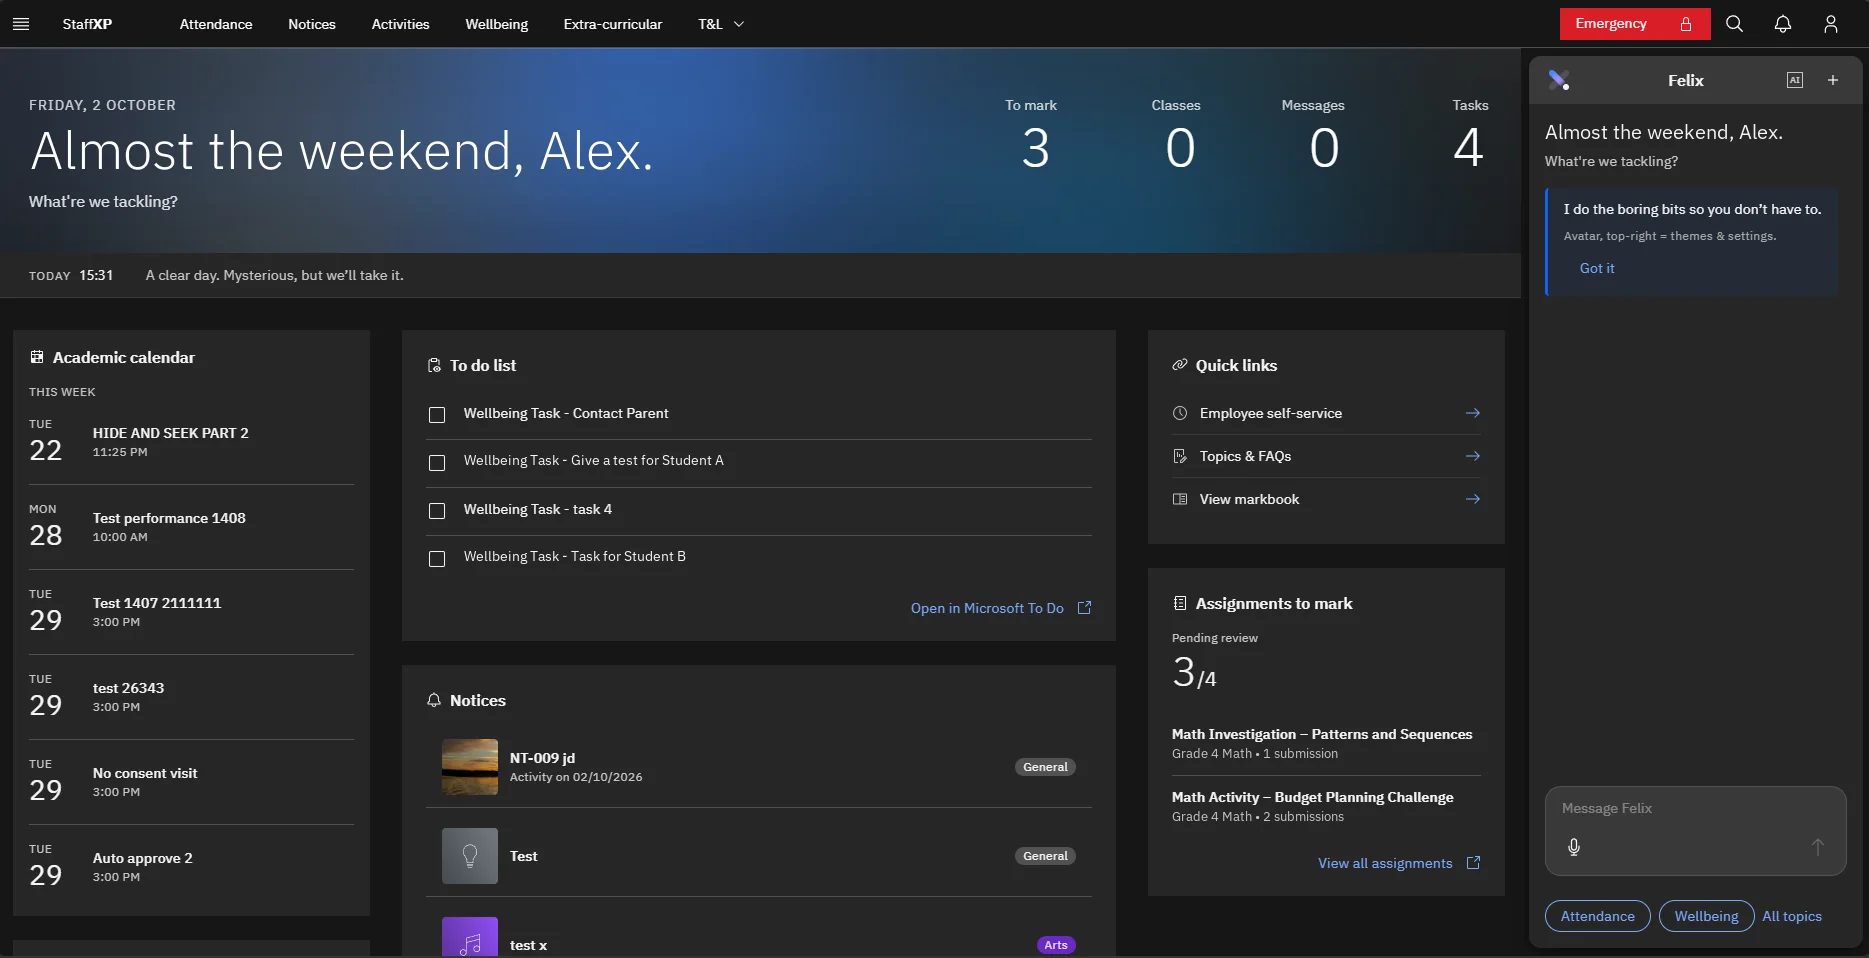
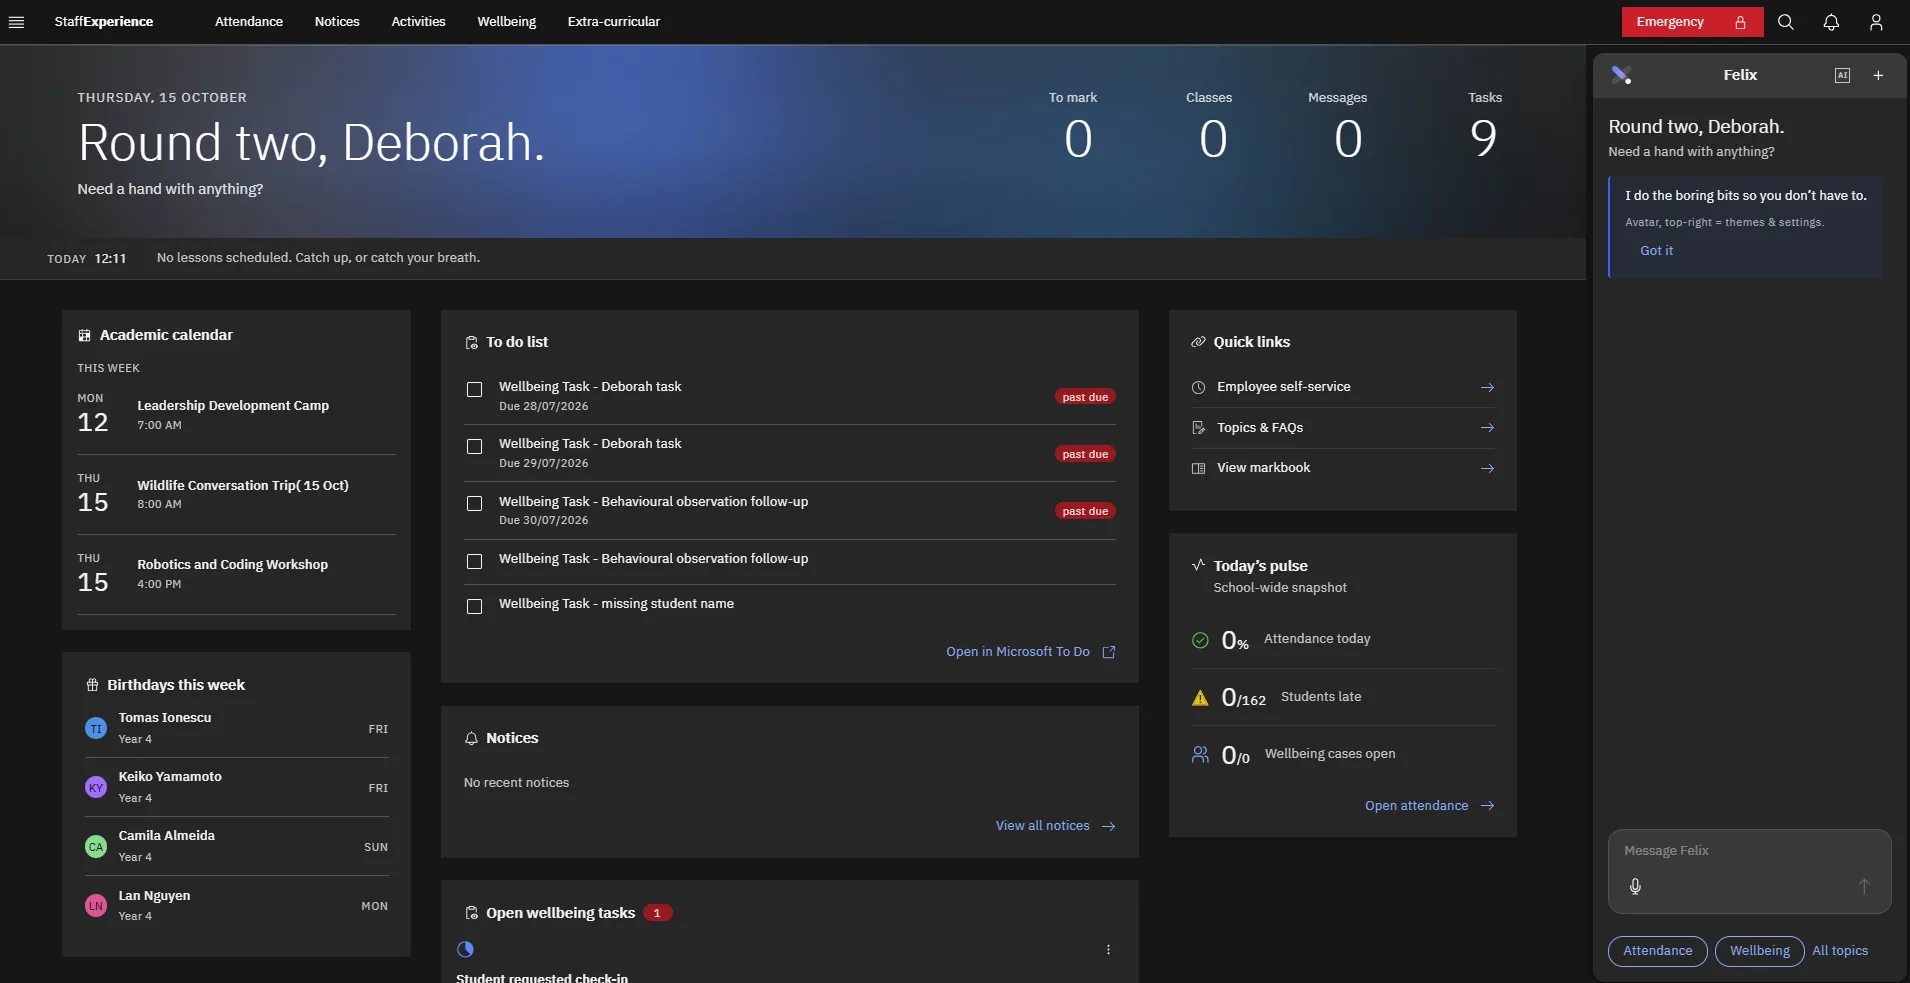
fix(work): swap in the new StaffXP dashboard screenshot, re-measure hotspots
Teammate provided a new dashboard capture (dropped directly into
public/work/, same filename) whose UI now reads "StaffExperience"
instead of "StaffXP" — resolves the copyright concern at the pixel
level, not just in page text (see the earlier rename commit).

Confirmed with the team before committing: the visible names (a
greeting by first name, a "Birthdays this week" list tagged "Year 4")
are seeded demo-account data, not real people.

The new layout bears no resemblance to the old one, so the existing
hotspot boxes (percentage regions measured against the old image) would
have misaligned completely. Re-measured from scratch using a gridded
HTML overlay + Playwright screenshots as a ruler, rather than eyeballing
it. Settled on 8 regions (was 6): Academic calendar, To-do list,
Birthdays this week, Notices, Open wellbeing tasks, Quick links,
Today's pulse, AI assistant panel. "Assignments to mark" no longer
exists in this layout.

- site.js: selectedWork.staffxp.hotspots, main.width/height (1910x983,
  read from the PNG header) and main.alt updated to match.
- public/work/staffxp-dashboard.webp: converted from the delivered PNG
  (sharp installed temporarily, same pattern as this session's other
  temporary tool installs) to match the other screenshots' format.
- content/TODO.md: ticked off the dev-test-data item (resolved by the
  new capture's content) and noted the sign-in screenshot never showed
  "StaffXP" in the first place, so it didn't need replacing.
[…]

diff --git a/src/content/site.js b/src/content/site.js
@@ -195,10 +195,13 @@ export const selectedWork = {
     desc: 'A staff experience platform bringing everyday activities, notices, wellbeing, tasks, and operational information into one workspace.',
     tags: ['Staff experience', 'Business workflow', 'Role-based platform', 'Integrated operations'],
     main: {
+      // 2026-10-15: replaced with a new capture that no longer shows the "StaffXP" brand in the UI
+      // itself (the app header now reads "StaffExperience") — see PROMPT_LOG.md. Still a seeded demo
+      // account, not a real staff/student roster (confirmed with the team before committing).
       src: '/work/staffxp-dashboard.webp',
-      alt: 'Staff Experience dashboard with academic calendar, to-do list, notices, quick links, assignments to mark and an AI assistant panel. Sample data.',
-      width: 1869,
-      height: 958,
+      alt: "Staff Experience dashboard with academic calendar, to-do list, birthdays this week, notices, open wellbeing tasks, quick links, today's pulse and an AI assistant panel. Sample data.",
+      width: 1910,
+      height: 983,
     },
     secondary: {
       src: '/work/staffxp-sign-in.webp',
@@ -208,14 +211,17 @@ export const selectedWork = {
     },
     // DRAFT: heading for the list of annotated regions under the screens.
     hotspotsTitle: 'On this screen',
-    // MOTION §13: only UI visible in the screenshot is annotated.
+    // MOTION §13: only UI visible in the screenshot is annotated. Boxes measured 2026-10-15 against
+    // the new 1910x983 capture (replaces the previous screenshot's layout and hotspots).
     hotspots: [
-      { id: 'calendar', label: 'Academic calendar', box: { x: 0.7, y: 34.4, w: 19.1, h: 61.1 } },
-      { id: 'tasks', label: 'To-do list, linked to Microsoft To Do', box: { x: 21.5, y: 34.4, w: 38.2, h: 32.4 } },
-      { id: 'notices', label: 'Notices', box: { x: 21.5, y: 69.4, w: 38.2, h: 30.6 } },
-      { id: 'links', label: 'Quick links, including employee self-service', box: { x: 61.4, y: 34.4, w: 19.1, h: 22.2 } },
-      { id: 'marking', label: 'Assignments to mark', box: { x: 61.4, y: 59.3, w: 19.1, h: 34.1 } },
-      { id: 'assistant', label: 'AI assistant panel', box: { x: 81.9, y: 5.7, w: 17.8, h: 93.5 } },
+      { id: 'calendar', label: 'Academic calendar', box: { x: 2.4, y: 29.5, w: 19.6, h: 35.1 } },
+      { id: 'tasks', label: 'To-do list, linked to Microsoft To Do', box: { x: 24, y: 29.5, w: 37, h: 33.5 } },
+      { id: 'birthdays', label: 'Birthdays this week', box: { x: 2.4, y: 67.6, w: 19.6, h: 29.4 } },
+      { id: 'notices', label: 'Notices', box: { x: 24, y: 66.6, w: 37, h: 18.4 } },
+      { id: 'wellbeing', label: 'Open wellbeing tasks', box: { x: 24, y: 89, w: 37, h: 10.5 } },
+      { id: 'links', label: 'Quick links, including employee self-service', box: { x: 62.5, y: 29.5, w: 21, h: 18.3 } },
+      { id: 'pulse', label: "Today's pulse, a school-wide snapshot", box: { x: 62.5, y: 53.4, w: 21, h: 29.6 } },
+      { id: 'assistant', label: 'AI assistant panel', box: { x: 84.5, y: 6, w: 15.5, h: 94 } },
     ],
   },
   ess: {

diff --git a/PROMPT_LOG.md b/PROMPT_LOG.md
@@ -1099,3 +1099,45 @@ just at the end.
   confirmed zero "StaffXP" matches and the new "Staff Experience" text present on both. Zero console
   errors.
 
+## 2026-10-15 — new StaffXP screenshot: swapped in, re-measured, no new names (Bang Do + Claude)
+- Prompt: "image replace now", then (after I said no new file had reached the repo) "image is new
+  just the same name staffxp-dashboard".
+- Found it: `public/work/staffxp-dashboard.png`, dropped directly onto disk (not a chat attachment),
+  replacing the old `.webp` (which was gone). Read it before using it, per the project's screenshot
+  rule. Its app header now says "StaffExperience" (not "StaffXP") — the brand concern from the earlier
+  rename is now fixed at the pixel level too, not just in page text.
+- The new screenshot has named people visible: the greeting "Round two, Deborah," and a "Birthdays
+  this week" list with four names tagged "Year 4" (read as students). The project's standing rule is
+  to sanitize real names before a screenshot goes in — asked before committing it, rather than assume.
+  Bang Do confirmed it's seeded demo-account data, not real people; proceeded on that basis.
+  **Lesson: a filename staying the same ("staffxp-dashboard") says nothing about whether the pixels
+  changed, or by how much — checked the file's actual mtime (it had changed) and then actually looked
+  at the content (new layout entirely) before touching anything downstream.**
+- The new layout bears no resemblance to the old one (different panels, different grid), which meant
+  the existing `hotspots` array (% boxes measured against the old image) would misalign completely on
+  the new one — not a simple swap. Re-measured from scratch: loaded the image in a local HTML page
+  with a 5%-interval grid drawn over it via `<canvas>` (axis labels repeated on all four edges so any
+  cropped close-up is still self-contained), screenshotted it in quadrants and targeted boundary crops
+  with Playwright, and read the new eight panels' edges off the ruler directly rather than eyeballing
+  the original screenshot. Settled on 8 regions (the old had 6): Academic calendar, To-do list,
+  Birthdays this week, Notices, Open wellbeing tasks, Quick links, Today's pulse, AI assistant panel —
+  "Assignments to mark" no longer exists in this layout, so it's gone; the three new panels
+  (Birthdays, Today's pulse, Open wellbeing tasks) are genuinely new UI in the capture, not invented.
+  `site.js` `selectedWork.staffxp.hotspots`, `main.width`/`height` (1910x983, read from the PNG's own
+  header rather than assumed) and `main.alt` all updated to match.
+- Converted the delivered `.png` to `.webp` (installed `sharp` temporarily, same pattern as this
+  session's temporary Playwright installs — removed after) to match the other two screenshots'
+  format; deleted the `.png` so only one copy of the image exists in the repo.
+  Also checked the StaffXP sign-in screenshot while in the area: its UI already reads "Staff
+  Experience Place - SXP", never the literal "StaffXP", so it did not need replacing — noted in
+  `content/TODO.md` rather than left unexamined. The new dashboard capture also incidentally resolved
+  an older open item (`content/TODO.md`): the dev-environment test strings ("Test performance…",
+  "HIDE AND SEEK PART 2") from the previous screenshot are gone, replaced by plausible seeded content.
+- Verified: `npm test` (523/523, the existing hotspot tests only check unique ids/non-empty labels
+  and in-bounds boxes — no pixel-precision assertion exists, so this relied on the manual grid
+  measurement, not the test suite, for visual accuracy), `npm run lint` (clean), `npm run build`.
+  Playwright loaded the live Deployments viewer and confirmed: zero "StaffXP" matches, the card now
+  reads "STAFF EXPERIENCE", all 8 region buttons render with the expected labels, and — most
+  importantly, since this is the part no automated check covers — screenshotted the rendered page and
+  visually confirmed every hotspot box sits exactly over its real panel with no drift or overlap.
+

diff --git a/content/TODO.md b/content/TODO.md
@@ -25,15 +25,16 @@ see unmarked (open any build with `?review` to see the Draft markers). Resolve e
       is no longer shown as a product name anywhere in the page text — a teammate flagged it as
       another company's ("Gems") copyright, so the page now calls it "Staff Experience" throughout
       (`site.js` `selectedWork.staffxp.name`).
-- [ ] **StaffXP screenshots still show the real brand**: the dashboard and sign-in screenshots in
-      `public/work/` (`staffxp-dashboard.webp`, `staffxp-sign-in.webp`) have "StaffXP" baked into the
-      UI pixels themselves (app header/logo), so the copyright concern above isn't fully resolved by
-      the text rename alone. 2026-10-15: a teammate said a replacement screenshot is coming; swap it
-      in (same sanitizing steps as before: crop chrome, replace names/ids/school names with sample
-      values) once it's actually provided — it hasn't reached this repo yet.
-- [ ] **Test data on the StaffXP dashboard**: calendar items ("Test performance…", "HIDE AND SEEK
-      PART 2") and notices ("Test", "test x") are the dev environment's test records. Consider a
-      screenshot of a seeded demo account instead.
+- [x] ~~**StaffXP dashboard screenshot still showed the real brand**~~: 2026-10-15, replaced with a
+      new capture (`public/work/staffxp-dashboard.webp`, 1910x983) whose UI itself now reads
+      "StaffExperience", not "StaffXP" — confirmed with the team as a seeded demo account, not real
+      staff/students, before committing. Hotspot boxes (`site.js` `selectedWork.staffxp.hotspots`)
+      re-measured against the new layout. The sign-in screenshot (`staffxp-sign-in.webp`) was already
+      fine: its UI shows "Staff Experience Place - SXP", not "StaffXP" — no replacement needed there.
+- [x] ~~**Test data on the StaffXP dashboard**~~: resolved by the same 2026-10-15 screenshot swap —
+      the new capture is a seeded demo account with plausible content (e.g. "Leadership Development
+      Camp"), not the dev environment's literal test records ("Test performance…", "HIDE AND SEEK
+      PART 2") that the old screenshot showed.
 - [ ] **Story tags**: confirm the four StaffXP tags with the project owner (plan §7).
 
 ## Draft copy to sign off
